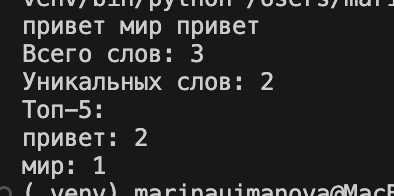
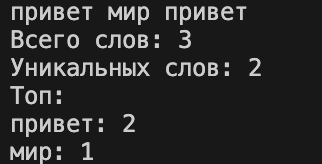
.

diff --git a/src/lab04/c/text_report.py b/src/lab04/c/text_report.py
@@ -19,14 +19,14 @@ def main(file: str, encoding: str = 'utf-8'):
     norm = normalize(text)
     tokens = tokenize(norm)
     freq_dict = count_freq(tokens)
-    top = top_n(freq_dict, 5)
+    top = top_n(freq_dict)
     top_sort = sorted(top, key=lambda x: (x[1], x[0]), reverse=True)
     report_path = file_path.parent / 'report.csv'
     write_csv(top_sort, report_path, header=('word', 'count'))
     
     print(f'Всего слов: {len(tokens)}')
     print(f'Уникальных слов: {len(freq_dict)}')
-    print('Топ-5:')
+    print('Топ:')
     for cursor in top_sort:
         print(f'{cursor[0]}: {cursor[-1]}')
 
